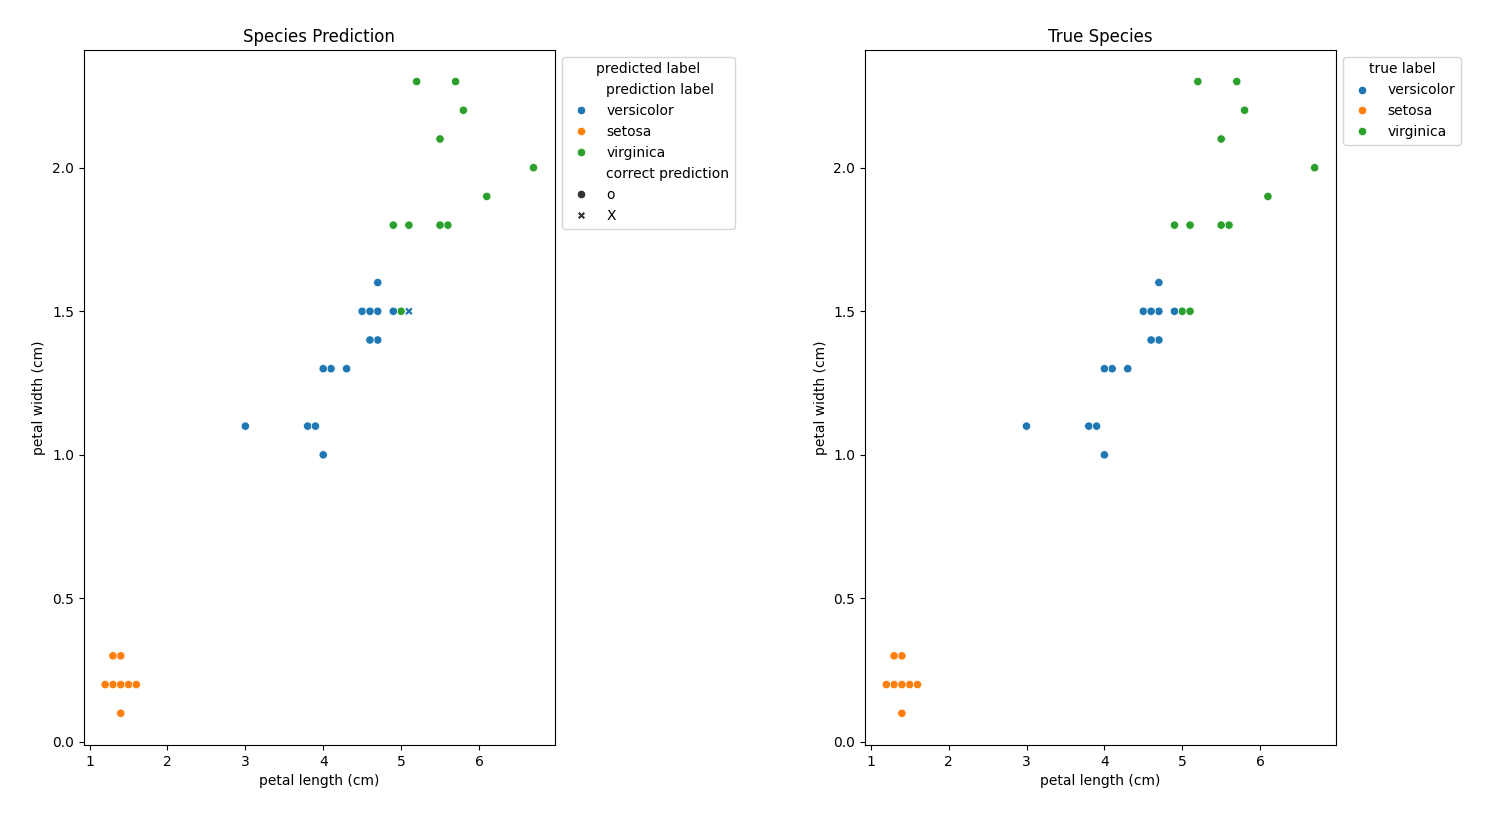
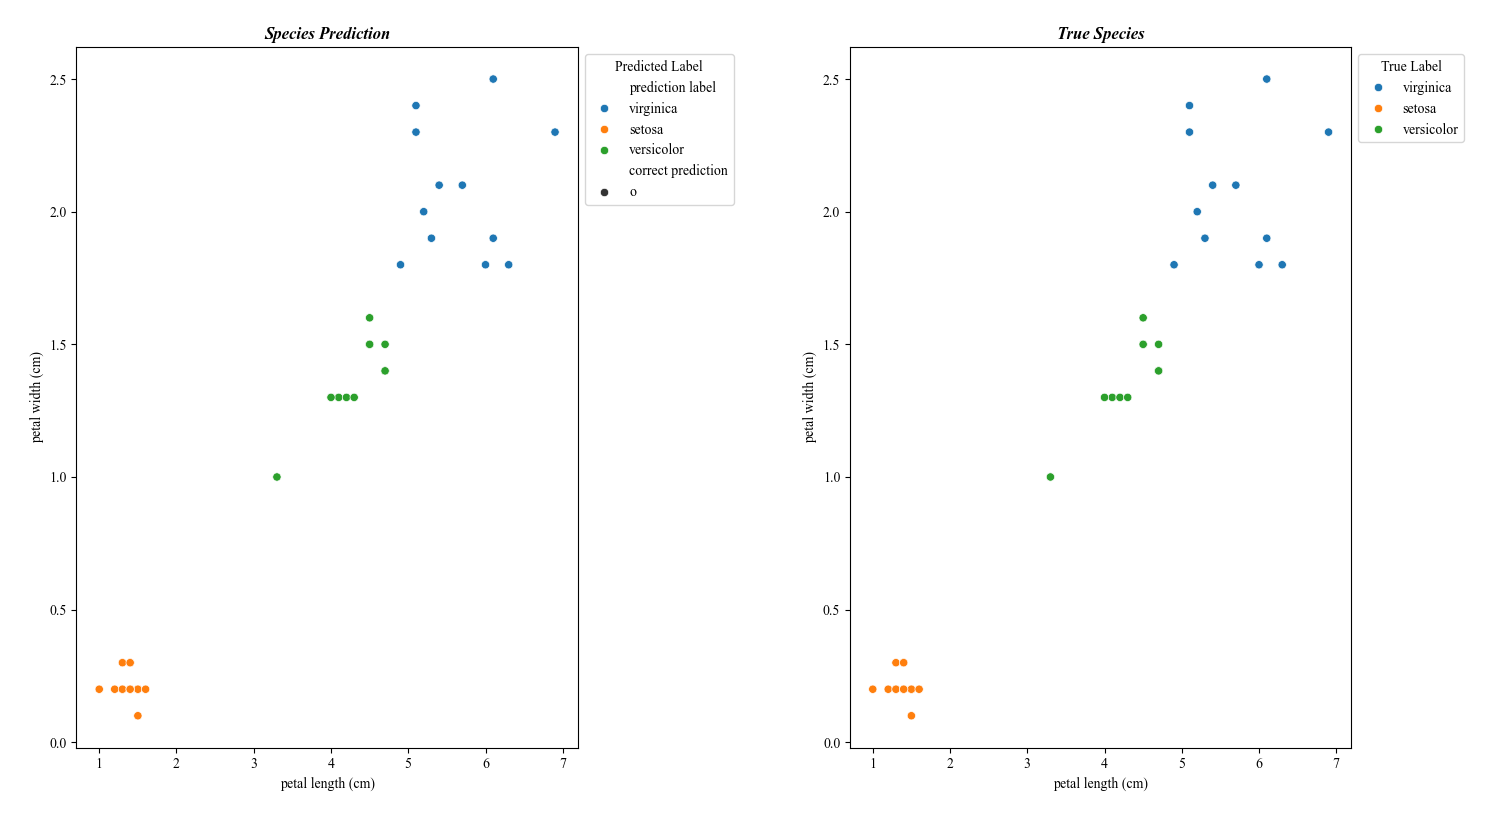
Spring cleaning

diff --git a/species_prediction/iris_plotting.py b/species_prediction/iris_plotting.py
@@ -39,16 +39,19 @@ plt.tight_layout()
 plt.show()
 
 # Cross validation:
-data = predictions_dataframe
+plt.rcParams["font.serif"] = ["Times New Roman"]
+plt.rcParams["font.family"] = "serif"
+
 _, axs = plt.subplots(nrows=1, ncols=2, figsize=(12, 6))
 style = predictions_dataframe["correct prediction"].apply(lambda x: "X" if not x else "o")
 
-sns.scatterplot(ax=axs[0], x="petal length (cm)", y="petal width (cm)", data=data, hue="prediction label", style=style)
-axs[0].set_title("Species Prediction"), axs[0].legend(title='Predicted Label'.lower(), loc='upper left',
-                                                      bbox_to_anchor=(1, 1))
+sns.scatterplot(ax=axs[0], x="petal length (cm)", y="petal width (cm)", data=predictions_dataframe, hue="prediction label", style=style)
+axs[0].set_title("Species Prediction", fontweight='bold', fontstyle='italic', fontsize=12)
+axs[0].legend(title='Predicted Label', loc='upper left', bbox_to_anchor=(1, 1))
 
-sns.scatterplot(ax=axs[1], x="petal length (cm)", y="petal width (cm)", data=data, hue="target name")
-axs[1].set_title("True Species"), axs[1].legend(title='True Label'.lower(), loc='upper left', bbox_to_anchor=(1, 1))
+sns.scatterplot(ax=axs[1], x="petal length (cm)", y="petal width (cm)", data=predictions_dataframe, hue="target name")
+axs[1].set_title("True Species", fontweight='bold', fontstyle='italic', fontsize=12)
+axs[1].legend(title='True Label', loc='upper left', bbox_to_anchor=(1, 1))
 
 plt.tight_layout()
 plt.show()

diff --git a/README.md b/README.md
@@ -2,23 +2,33 @@
 
 [scikit-learn.org](https://scikit-learn.org/)
 
+---
 
-"""
+**_Iris Species Prediction:_**
 
+- Using a model trained on Iris flower measurements (petal length, petal width, sepal legth, speal width) we predict the
+  species.
 
-Machine Learning in Python
+Species prediction scatter Graph:
+![prediction.png](species_prediction%2Fprediction.png)
+more plots in species_prediction directory.
 
+---
 
-Simple and efficient tools for predictive data analysis
+**_House Value Prediction:_**
 
+- Using a model trained on California housing data (bedrooms, bathrooms, lat, lng...), we predict the house value.
 
-Accessible to everybody, and reusable in various contexts
+Values capped at $500k in raw data, leading to anomalous predictions:
+![predictions_scatter](price_prediction/predictions_scatter.png)
+more plots in price_prediction directory.
 
-    
-Built on NumPy, SciPy, and matplotlib
+---
 
+**_Personal Income Prediction:_**
 
-Open source, commercially usable - BSD license
+- Using a model trained on various personal attributes (age, gender, education...), we predict a person's income.
 
-
-"""
+Confusion matrix showing predicted incomes vs true incomes:
+![income_matrix](income_prediction/income_matrix.png)
+more plots in income_prediction directory.
